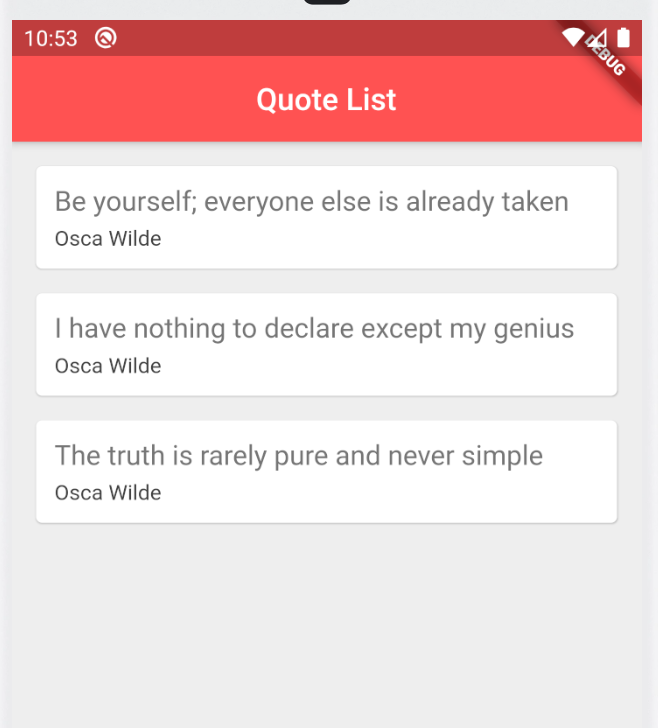
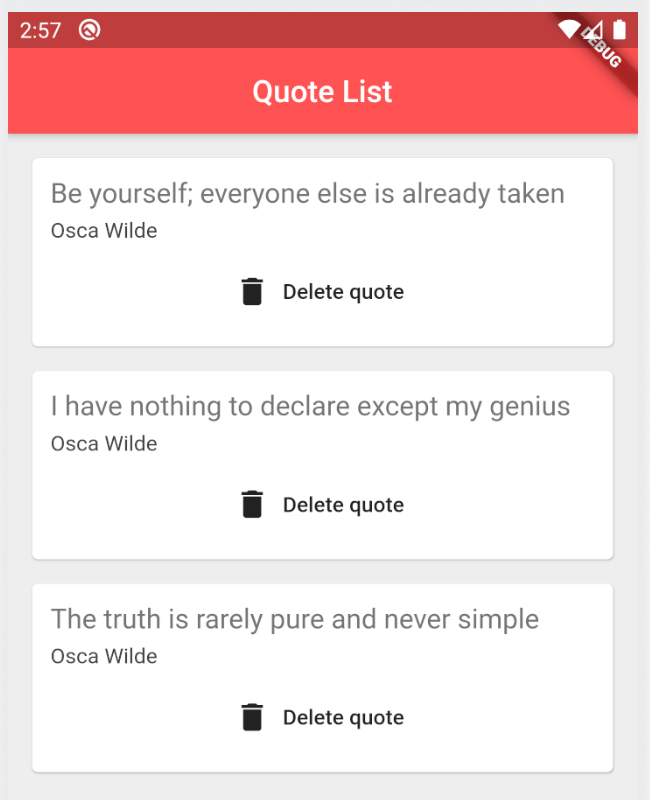
Added quote deleting feature

diff --git a/lib/quote_card.dart b/lib/quote_card.dart
@@ -3,7 +3,8 @@ import 'package:quoteslist/quote.dart';
 
 class QuoteCard extends StatelessWidget {
   final Quote quote;
-  QuoteCard({ this.quote });
+  final Function delete;
+  QuoteCard({ this.quote, this.delete });
 
   @override
   Widget build(BuildContext context) {
@@ -27,7 +28,12 @@ class QuoteCard extends StatelessWidget {
                   fontSize: 14.0,
                   color: Colors.grey[800]
               ),
-            )
+            ),
+            SizedBox(height: 8.0),
+            FlatButton.icon(
+              onPressed: delete,
+              icon: Icon(Icons.delete
+            ), label: Text('Delete quote'))
           ],
         ),
       ),

diff --git a/lib/main.dart b/lib/main.dart
@@ -28,7 +28,14 @@ class _QuoteListState extends State<QuoteList> {
         backgroundColor: Colors.redAccent,
       ),
       body: Column(
-        children: quotes.map((quote) => QuoteCard(quote: quote)).toList()
+        children: quotes.map((quote) => QuoteCard(
+          quote: quote,
+          delete: () {
+            setState(() {
+              quotes.remove(quote);
+            });
+          }
+        )).toList()
       ),
     );
   }
